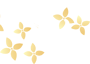
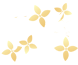
Fixed top left branch, outsourced possible-edit-needing pieces of front page content to their own php files

diff --git a/less/style.less b/less/style.less
@@ -59,6 +59,16 @@ h3 {
     font-weight: 700;
 }
 
+.alignleft {
+    float: left;
+    padding: 0 10px 10px 0;
+}
+
+.alignright {
+    float: right;
+    padding: 0 0 10px 10px;
+}
+
 a:hover .btn {
     text-decoration: none;
 }
@@ -74,13 +84,13 @@ a:hover .btn {
     &:hover {
         .classy-border (@gold);
         color: @mahogany;
+        text-decoration: none;
     }
 }
 
 .btn-large {
     font-size: 1.4em;
     font-weight: 400;
-    text-decoration: none;
 
 }
 
@@ -91,7 +101,6 @@ a:hover .btn {
     &:hover {
         .classy-border(@link-color);
         color: white;
-        text-decoration: none;
     }
 }
 
@@ -196,13 +205,8 @@ a:hover .btn {
         border-bottom-left-radius: 10px;
         border: none;
 
-        &.visible-md {
+        &.visible-md, &.visible-sm {
             font-size: 1.8em;
-        }
-
-        &.visible-sm {
-            padding: 10px 5px;
-            font-size: 1.5em;
         }
     }
 }

diff --git a/page-12.php b/page-12.php
@@ -23,31 +23,22 @@ get_header(); ?>
             <div class="section row details">
               <div class="col-lg-4 col-sm-12">
                 <p>
-                    <span class="col-sm-12 col-lg-12"><a href="<?php echo esc_url( home_url( '/' ) ); ?>menu/"><button class="btn btn-large">View menu</button></a></span>
-                    <span class="col-sm-6 col-lg-12"><a href="<?php echo esc_url( home_url( '/' ) ); ?>reservations/"><button class="btn btn-large btn-primary">Make a reservation</button></a></span>
-                    <span class="col-sm-6 col-lg-12"><a href="<?php echo esc_url( home_url( '/' ) ); ?>takeout/"><button class="btn btn-large btn-primary">Order takeout</button></a></span>
+                    <span class="col-sm-12 col-lg-12"><a href="<?php echo esc_url( home_url( '/' ) ); ?>menu/" class="btn btn-large">View menu</a></span>
+                    <span class="col-sm-6 col-lg-12"><a href="<?php echo esc_url( home_url( '/' ) ); ?>reservations/" class="btn btn-large btn-primary">Make a reservation</a></span>
+                    <span class="col-sm-6 col-lg-12"><a href="<?php echo esc_url( home_url( '/' ) ); ?>takeout/" class="btn btn-large btn-primary">Order takeout</a></span>
                 </p>
               </div>
               <div class="col-lg-4 col-lg-push-4 col-sm-6 col-6">
                 <div class="highlight">
                 <h3>Hours</h3>
-                <h4>Tuesday &ndash; Saturday:</h4>
-                <p>11:30 am &ndash; 2:30 pm
-                    <br>5 pm &ndash; 10 pm</p>
-                <h4>Sunday:</h4>
-                <p>11:30 am &ndash; 2:30 pm
-                    <br>5 pm &ndash; 9 pm</p>
-                <p><em>Closed Mondays</em></p>
+                <?php include 'hours.php'; ?>
                 </div>
 
               </div>
               <div class="col-lg-4 col-lg-pull-4 col-sm-6 col-6">
                 <div class="highlight">
                 <h3>Address</h3>
-                <p>Tops Brighton Plaza <a href="">(map)</a><br>
-                1900 Clinton Ave. S<br>
-                Rochester, NY 14618</p>
-                <p>585-241-3223</p>
+                <?php include 'address.php'; ?>
                 </div>
               </div>
             </div>
@@ -73,10 +64,7 @@ get_header(); ?>
                     <div class="highlight">
                         <h2>Promotions</h2>
                         <div class="row">
-                            <div class="col-lg-4 col-sm-6">
-                                <img class="img-responsive" src="http://placekitten.com/600/400">
-                            </div>
-                            <div class="col-lg-8 col-sm-6">
+                            <div class="col-lg-12">
                                 <?php /* The loop */ ?>
                                 <?php while ( have_posts() ) : the_post(); ?>
                                     <h3><?php the_title(); ?></h3>
@@ -92,48 +80,18 @@ get_header(); ?>
             <div class="section row">
 
               <div class="col-sm-6 col-lg-4 col-lg-push-8">
-                <a class="col-12 social-media facebook">
-                    <img src="<?php echo get_template_directory_uri(); ?>/img/fb.png" class="img-responsive"/>
-                    <span>Like Amaya on Facebook</span>
-                </a>
-                <a class="col-12 social-media twitter">
-                    <img src="<?php echo get_template_directory_uri(); ?>/img/twitter.png" class="img-responsive"/>
-                    <span>Follow Amaya on Twitter</span>
-                </a>
-                <a class="col-12 social-media yelp">
-                    <img src="<?php echo get_template_directory_uri(); ?>/img/yelp.png" class="img-responsive"/>
-                    <span>Review Amaya on Yelp</span>
-                </a>
-                <a class="col-12 social-media urbanspoon">
-                    <img src="<?php echo get_template_directory_uri(); ?>/img/urbanspoon.png" width="90" class="img-responsive"/>
-                    <span>Review Amaya on Urbanspoon</span>
-                </a>
-                <a class="col-12 social-media tripadvisor">
-                    <img src="<?php echo get_template_directory_uri(); ?>/img/tripadvisor.png" width="90" class="img-responsive"/>
-                    <span>Review Amaya on Tripadvisor</span>
-                </a>
+                <?php include 'socialmedia.php'; ?>
                 <div class="clearer">&nbsp;</div>
               </div>
 
               <div class="col-sm-6 col-lg-4 col-lg-pull-4">
                 <h3>Upcoming Events</h3>
-                <iframe src="https://www.google.com/calendar/embed?showTitle=0&amp;showNav=0&amp;showDate=0&amp;showPrint=0&amp;showTabs=0&amp;showCalendars=0&amp;showTz=0&amp;mode=AGENDA&amp;height=400&amp;wkst=1&amp;bgcolor=%23FFFFFF&amp;src=5bb3675gj99pf09n2g3jjgscf8%40group.calendar.google.com&amp;color=%232952A3&amp;ctz=America%2FNew_York" style=" border-width:0 " width="280" height="350" frameborder="0" scrolling="no"></iframe>
+                <?php include 'calendar.php'; ?>
                 <br>
               </div>
               <div class="mailing-list col-sm-12 col-lg-4 col-lg-pull-4">
                 <h3>Join our mailing list!</h3>
-                <!-- Begin MailChimp Signup Form -->
-
-                <form action="http://amayabarandgrill.us2.list-manage2.com/subscribe/post?u=654e8acd30fe473306b41e3fe&amp;id=ce904dbb8b" method="post" id="mc-embedded-subscribe-form" name="mc-embedded-subscribe-form" class="validate" target="_blank">
-                    <input value="" name="EMAIL" class="textfield" placeholder="Email address" id="mce-EMAIL" type="email">&nbsp;<input value="Go" name="subscribe" id="mc-embedded-subscribe" class="button button_go btn" type="submit">
-
-                    <div id="mce-responses" class="clear">
-                        <div class="response" id="mce-error-response" style="display:none"></div>
-                        <div class="response" id="mce-success-response" style="display:none"></div>
-                    </div>
-                </form>
-                <p class="helptext">To sign up for our newsletter and special offers, enter your email address into the box above. You can unsubscribe at any time.</p>
-                <!--End mc_embed_signup-->
+                <?php include 'mailinglist.php'; ?>
                  <br>
               </div>
             </div>

diff --git a/header.php b/header.php
@@ -39,29 +39,14 @@
         <div class="nav-flowers">
             <div class="container">
                     <div class="visible-lg">
-                        <a class="logo" href="<?php echo esc_url( home_url( '/' ) ); ?>" title="<?php echo esc_attr( get_bloginfo( 'name', 'display' ) ); ?>" rel="home"><img src="<?php echo get_template_directory_uri(); ?>/img/logo.png"></a>
-                        <a class="home-link" href="<?php echo esc_url( home_url( '/' ) ); ?>" title="<?php echo esc_attr( get_bloginfo( 'name', 'display' ) ); ?>" rel="home">Home</a>
-                        <a href="<?php echo esc_url( home_url( '/' ) ); ?>menu/">Menu</a>
-                        <a href="<?php echo esc_url( home_url( '/' ) ); ?>reservations/">Reservations</a>
-                        <a href="<?php echo esc_url( home_url( '/' ) ); ?>takeout/">Takeout</a>
-                        <a href="<?php echo esc_url( home_url( '/' ) ); ?>catering/">Catering</a>
-                        <a href="<?php echo esc_url( home_url( '/' ) ); ?>about-us/">About Us</a>
+                        <?php include 'nav-lg.php' ?>
                     </div>
                     <div class="visible-md">
-                        <a class="logo" href="<?php echo esc_url( home_url( '/' ) ); ?>" title="<?php echo esc_attr( get_bloginfo( 'name', 'display' ) ); ?>" rel="home"><img src="<?php echo get_template_directory_uri(); ?>/img/logo.png"></a>
-                        <a href="<?php echo esc_url( home_url( '/' ) ); ?>menu/">Menu</a>
-                        <a href="<?php echo esc_url( home_url( '/' ) ); ?>reservations/">Reservations</a>
-                        <a href="<?php echo esc_url( home_url( '/' ) ); ?>takeout/">Takeout</a>
-                        <a href="<?php echo esc_url( home_url( '/' ) ); ?>catering/">Catering</a>
-                        <a href="<?php echo esc_url( home_url( '/' ) ); ?>about-us/">About Us</a>
+                        <?php include 'nav-md.php' ?>
                     </div>
                     <div class="visible-sm">
-                        <a class="logo" style="margin: 0;" href="<?php echo esc_url( home_url( '/' ) ); ?>" title="<?php echo esc_attr( get_bloginfo( 'name', 'display' ) ); ?>" rel="home"><img src="<?php echo get_template_directory_uri(); ?>/img/logo.png"></a>
-                        <a href="<?php echo esc_url( home_url( '/' ) ); ?>menu/">Menu</a>
-                        <a href="<?php echo esc_url( home_url( '/' ) ); ?>reservations/">Reservations</a>
-                        <a href="<?php echo esc_url( home_url( '/' ) ); ?>takeout/">Takeout</a>
+                        <?php include 'nav-sm.php' ?>
                     </div>
-                    <!-- <h3 class="menu-toggle"><?php _e( 'Menu', 'twentythirteen' ); ?></h3> -->
             </div>
         </div>
         <div class="clearfix"></div>

diff --git a/socialmedia.php b/socialmedia.php
@@ -1,0 +1,20 @@
+<a class="col-12 social-media facebook">
+    <img src="<?php echo get_template_directory_uri(); ?>/img/fb.png" class="img-responsive"/>
+    <span>Like Amaya on Facebook</span>
+</a>
+<a class="col-12 social-media twitter">
+    <img src="<?php echo get_template_directory_uri(); ?>/img/twitter.png" class="img-responsive"/>
+    <span>Follow Amaya on Twitter</span>
+</a>
+<a class="col-12 social-media yelp">
+    <img src="<?php echo get_template_directory_uri(); ?>/img/yelp.png" class="img-responsive"/>
+    <span>Review Amaya on Yelp</span>
+</a>
+<a class="col-12 social-media urbanspoon">
+    <img src="<?php echo get_template_directory_uri(); ?>/img/urbanspoon.png" width="90" class="img-responsive"/>
+    <span>Review Amaya on Urbanspoon</span>
+</a>
+<a class="col-12 social-media tripadvisor">
+    <img src="<?php echo get_template_directory_uri(); ?>/img/tripadvisor.png" width="90" class="img-responsive"/>
+    <span>Review Amaya on Tripadvisor</span>
+</a>

diff --git a/mailinglist.php b/mailinglist.php
@@ -1,0 +1,13 @@
+<!-- Begin MailChimp Signup Form -->
+
+<form action="http://amayabarandgrill.us2.list-manage2.com/subscribe/post?u=654e8acd30fe473306b41e3fe&amp;id=ce904dbb8b" method="post" id="mc-embedded-subscribe-form" name="mc-embedded-subscribe-form" class="validate" target="_blank">
+    <input value="" name="EMAIL" class="textfield" placeholder="Email address" id="mce-EMAIL" type="email">&nbsp;<input value="Go" name="subscribe" id="mc-embedded-subscribe" class="button button_go btn" type="submit">
+
+    <div id="mce-responses" class="clear">
+        <div class="response" id="mce-error-response" style="display:none"></div>
+        <div class="response" id="mce-success-response" style="display:none"></div>
+    </div>
+</form>
+<p class="helptext">To sign up for our newsletter and special offers, enter your email address into the box above. You can unsubscribe at any time.</p>
+
+<!--End mc_embed_signup-->

diff --git a/footer.php b/footer.php
@@ -19,8 +19,8 @@
               <div class="col-lg-4 col-4">
                 <ul>
                     <li><a href="<?php echo get_template_directory_uri(); ?>">Home</a></li>
-                    <li><a href="<?php echo get_template_directory_uri(); ?>menu/lunch/">Menu &ndash; Lunch</a></li>
-                    <li><a href="<?php echo get_template_directory_uri(); ?>menu/dinner/">Menu &ndash; Dinner</a></li>
+                    <li><a href="<?php echo get_template_directory_uri(); ?>menu/#lunch">Menu &ndash; Lunch</a></li>
+                    <li><a href="<?php echo get_template_directory_uri(); ?>menu/#dinner">Menu &ndash; Dinner</a></li>
                     <li><a href="<?php echo get_template_directory_uri(); ?>events/">Events and Specials</a></li>
                 </ul>
               </div>

diff --git a/nav-lg.php b/nav-lg.php
@@ -1,0 +1,7 @@
+<a class="logo" href="<?php echo esc_url( home_url( '/' ) ); ?>" title="<?php echo esc_attr( get_bloginfo( 'name', 'display' ) ); ?>" rel="home"><img src="<?php echo get_template_directory_uri(); ?>/img/logo.png"></a>
+<a class="home-link" href="<?php echo esc_url( home_url( '/' ) ); ?>" title="<?php echo esc_attr( get_bloginfo( 'name', 'display' ) ); ?>" rel="home">Home</a>
+<a href="<?php echo esc_url( home_url( '/' ) ); ?>menu/">Menu</a>
+<a href="<?php echo esc_url( home_url( '/' ) ); ?>reservations/">Reservations</a>
+<a href="<?php echo esc_url( home_url( '/' ) ); ?>takeout/">Takeout</a>
+<a href="<?php echo esc_url( home_url( '/' ) ); ?>catering/">Catering</a>
+<a href="<?php echo esc_url( home_url( '/' ) ); ?>about-us/">About Us</a>

diff --git a/nav-md.php b/nav-md.php
@@ -1,0 +1,6 @@
+<a class="logo" href="<?php echo esc_url( home_url( '/' ) ); ?>" title="<?php echo esc_attr( get_bloginfo( 'name', 'display' ) ); ?>" rel="home"><img src="<?php echo get_template_directory_uri(); ?>/img/logo.png"></a>
+<a href="<?php echo esc_url( home_url( '/' ) ); ?>menu/">Menu</a>
+<a href="<?php echo esc_url( home_url( '/' ) ); ?>reservations/">Reservations</a>
+<a href="<?php echo esc_url( home_url( '/' ) ); ?>takeout/">Takeout</a>
+<a href="<?php echo esc_url( home_url( '/' ) ); ?>catering/">Catering</a>
+<a href="<?php echo esc_url( home_url( '/' ) ); ?>about-us/">About Us</a>

diff --git a/nav-sm.php b/nav-sm.php
@@ -1,0 +1,4 @@
+<a class="logo" style="margin: 0;" href="<?php echo esc_url( home_url( '/' ) ); ?>" title="<?php echo esc_attr( get_bloginfo( 'name', 'display' ) ); ?>" rel="home"><img src="<?php echo get_template_directory_uri(); ?>/img/logo.png"></a>
+<a href="<?php echo esc_url( home_url( '/' ) ); ?>menu/">Menu</a>
+<a href="<?php echo esc_url( home_url( '/' ) ); ?>reservations/">Reservations</a>
+<a href="<?php echo esc_url( home_url( '/' ) ); ?>takeout/">Takeout</a>

diff --git a/calendar.php b/calendar.php
@@ -1,0 +1,1 @@
+<iframe src="https://www.google.com/calendar/embed?showTitle=0&amp;showNav=0&amp;showDate=0&amp;showPrint=0&amp;showTabs=0&amp;showCalendars=0&amp;showTz=0&amp;mode=AGENDA&amp;height=400&amp;wkst=1&amp;bgcolor=%23FFFFFF&amp;src=5bb3675gj99pf09n2g3jjgscf8%40group.calendar.google.com&amp;color=%232952A3&amp;ctz=America%2FNew_York" style=" border-width:0 " width="280" height="350" frameborder="0" scrolling="no"></iframe>

diff --git a/address.php b/address.php
@@ -1,0 +1,4 @@
+<p>Tops Brighton Plaza <a href="https://maps.google.com/maps?q=1900+Clinton+Ave.+S,+Rochester,+NY+14618&hl=en&ll=43.120548,-77.592874&spn=0.008364,0.021136&sll=43.119812,-77.593131&sspn=0.008364,0.021136&hnear=1900+Clinton+Ave+S,+Rochester,+Monroe,+New+York+14618&t=m&z=16">(map)</a><br>
+1900 Clinton Ave. S<br>
+Rochester, NY 14618</p>
+<p>585-241-3223</p>

diff --git a/hours.php b/hours.php
@@ -1,0 +1,7 @@
+<h4>Tuesday &ndash; Saturday:</h4>
+<p>11:30 am &ndash; 2:30 pm
+    <br>5 pm &ndash; 10 pm</p>
+<h4>Sunday:</h4>
+<p>11:30 am &ndash; 2:30 pm
+    <br>5 pm &ndash; 9 pm</p>
+<p><em>Closed Mondays</em></p>
